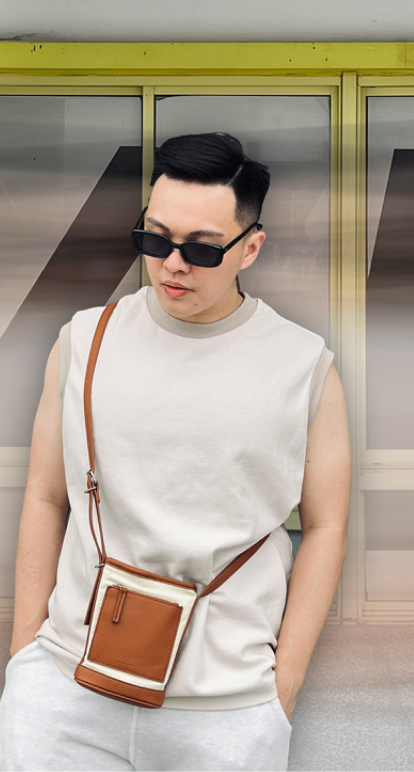
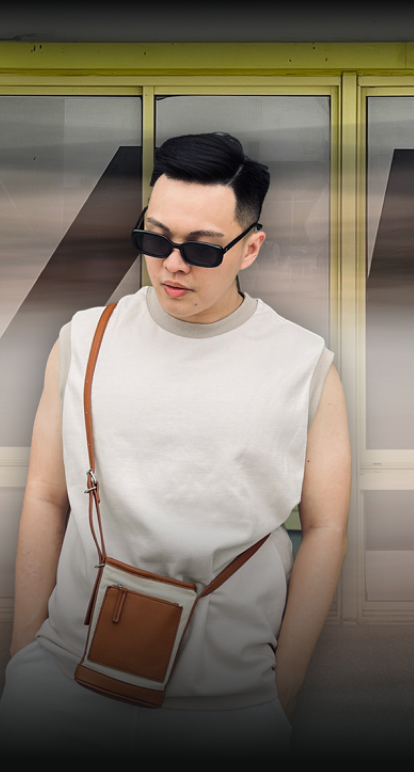
home section with RWD

diff --git a/styles/style.scss b/styles/style.scss
@@ -38,12 +38,12 @@ body {
   width: 100%;
   display: flex;
   justify-content: center;
+  background-color: $BGColor;
+
   main {
     max-width: 1280px;
     min-width: 320px;
     width: 100%;
-<<<<<<< HEAD
-=======
 
     section {
       .sub_heading {
@@ -52,37 +52,72 @@ body {
         color: $H1Color;
       }
     }
->>>>>>> origin/master
 
     section.home {
-      position: relative;
-      img.bg {
-        position: absolute;
-        width: 100%;
-        z-index: -1;
-        top: 0;
-        left: 0;
-      }
-<<<<<<< HEAD
+      // border: 1px solid red;
+      min-height: 187vw;
+      padding-inline: 1rem;
+      padding-block: 1rem;
+      background-color: $BGColor;
+      background-image: url(../imgs/bg_main_mobile.png);
+      background-repeat: no-repeat;
+      background-size: contain;
+      display: flex;
+      flex-direction: column;
+      justify-content: start;
+      align-items: center;
+      font-size: 1rem;
 
       nav.navbar {
-        color: $white;
-        font-family: "Inter", sans-serif;
-        position: absolute;
-        right: 30px;
-        top: 20px;
-=======
-      // background-image: url(../imgs/bg_main_desktop.png);
-      nav {
-        color: $white;
-        font-family: "Inter", sans-serif;
->>>>>>> origin/master
+        width: 100%;
+        // border: 1px solid red;
 
         ul {
           list-style: none;
-          display: flex;
-          flex-direction: column;
-          row-gap: 5px;
+          font-weight: 700;
+          @extend .flex-col-center;
+          justify-content: start;
+          align-items: end;
+
+          span.left-side {
+            align-self: start;
+            position: absolute;
+          }
+
+          span.right-side {
+            @extend .flex-col-center;
+            align-items: end;
+            row-gap: 0.5rem;
+          }
+        }
+      }
+
+      img.title {
+        width: 70%;
+        margin-top: 75%;
+        margin-right: 10%;
+        // border: 1px solid red;
+      }
+
+      img.logo {
+        width: 32%;
+        margin-top: 5%;
+        align-self: end;
+        margin-right: 2%;
+        // border: 1px solid red;
+      }
+
+      div.bottomContainer {
+        // border: 1px solid red;
+        display: flex;
+        margin-top: 5%;
+
+        img.be_icon {
+          // border: 1px solid red;
+          align-self: end;
+          position: absolute;
+          left: 16px;
+          // margin-right: ;
         }
       }
     }
@@ -91,8 +126,9 @@ body {
       width: 100%;
       // height: 100vh;
       padding-inline: 1rem;
-      padding-block:3rem;
+      padding-block: 3rem;
       background-color: $BGColor;
+      // border: none;
 
       div.about_me {
         width: 100%;
@@ -127,8 +163,8 @@ body {
 
           span {
             font-size: 60px;
-            font-weight:900;
-            font-style:italic;
+            font-weight: 900;
+            font-style: italic;
             color: $fontColor;
             white-space: nowrap;
           }
@@ -141,6 +177,36 @@ body {
 @media (min-width: $md) {
   body {
     main {
+      section.home {
+        min-height: 20vw;
+        padding-inline: 5rem;
+        padding-block: 2rem;
+        background-image: url(../imgs/bg_main_ipad.png);
+
+        img.title {
+          width: 70%;
+          margin-top: 42%;
+          margin-right: 35%;
+          // border: 1px solid red;
+        }
+
+        img.logo {
+          width: 25%;
+          margin-top: 0;
+          margin-right: 0;
+          // position: absolute;
+          // border: 1px solid red;
+        }
+
+        div.bottomContainer {
+          margin-top: 0;
+
+          img.be_icon {
+            left: 80px;
+          }
+        }
+      }
+
       section.about {
         padding-inline: 5rem;
       }
@@ -151,6 +217,35 @@ body {
 @media (min-width: $lg) {
   body {
     main {
+      section.home {
+        min-height: 20vw;
+        padding-inline: 5rem;
+        padding-block: 2rem;
+        background-image: url(../imgs/bg_main_desktop.png);
+        font-size: 1.25rem;
+
+        img.title {
+          width: 50%;
+          margin-top: 18%;
+          margin-right: 45%;
+          // border: 1px solid red;
+        }
+
+        img.logo {
+          width: 20%;
+          margin-right: 2rem;
+          // position: absolute;
+          // border: 1px solid red;
+        }
+
+        div.bottomContainer {
+          margin-top: 0;
+
+          img.be_icon {
+            left: 80px;
+          }
+        }
+      }
     }
   }
 }

diff --git a/styles/style.css b/styles/style.css
@@ -15,7 +15,7 @@ h6 {
   font-weight: normal;
 }
 
-.flex-col-center, body main section.about div.what_i_do div, body main section.about div.what_i_do, body main section.about div.about_me div, body main section.about div.about_me {
+.flex-col-center, body main section.about div.what_i_do div, body main section.about div.what_i_do, body main section.about div.about_me div, body main section.about div.about_me, body main section.home nav.navbar ul span.right-side, body main section.home nav.navbar ul {
   display: flex;
   flex-direction: column;
   justify-content: center;
@@ -25,6 +25,7 @@ body {
   width: 100%;
   display: flex;
   justify-content: center;
+  background-color: #0e0f0f;
 }
 body main {
   max-width: 1280px;
@@ -37,27 +38,55 @@ body main section .sub_heading {
   color: #b5a997;
 }
 body main section.home {
-  position: relative;
-}
-body main section.home img.bg {
-  position: absolute;
-  width: 100%;
-  z-index: -1;
-  top: 0;
-  left: 0;
+  min-height: 187vw;
+  padding-inline: 1rem;
+  padding-block: 1rem;
+  background-color: #0e0f0f;
+  background-image: url(../imgs/bg_main_mobile.png);
+  background-repeat: no-repeat;
+  background-size: contain;
+  display: flex;
+  flex-direction: column;
+  justify-content: start;
+  align-items: center;
+  font-size: 1rem;
 }
 body main section.home nav.navbar {
-  color: #ffffff;
-  font-family: "Inter", sans-serif;
-  position: absolute;
-  right: 30px;
-  top: 20px;
+  width: 100%;
 }
 body main section.home nav.navbar ul {
   list-style: none;
+  font-weight: 700;
+  justify-content: start;
+  align-items: end;
+}
+body main section.home nav.navbar ul span.left-side {
+  align-self: start;
+  position: absolute;
+}
+body main section.home nav.navbar ul span.right-side {
+  align-items: end;
+  row-gap: 0.5rem;
+}
+body main section.home img.title {
+  width: 70%;
+  margin-top: 75%;
+  margin-right: 10%;
+}
+body main section.home img.logo {
+  width: 32%;
+  margin-top: 5%;
+  align-self: end;
+  margin-right: 2%;
+}
+body main section.home div.bottomContainer {
   display: flex;
-  flex-direction: column;
-  row-gap: 5px;
+  margin-top: 5%;
+}
+body main section.home div.bottomContainer img.be_icon {
+  align-self: end;
+  position: absolute;
+  left: 16px;
 }
 body main section.about {
   width: 100%;
@@ -95,7 +124,53 @@ body main section.about div.what_i_do div span {
 }
 
 @media (min-width: 768px) {
+  body main section.home {
+    min-height: 20vw;
+    padding-inline: 5rem;
+    padding-block: 2rem;
+    background-image: url(../imgs/bg_main_ipad.png);
+  }
+  body main section.home img.title {
+    width: 70%;
+    margin-top: 42%;
+    margin-right: 35%;
+  }
+  body main section.home img.logo {
+    width: 25%;
+    margin-top: 0;
+    margin-right: 0;
+  }
+  body main section.home div.bottomContainer {
+    margin-top: 0;
+  }
+  body main section.home div.bottomContainer img.be_icon {
+    left: 80px;
+  }
   body main section.about {
     padding-inline: 5rem;
+  }
+}
+@media (min-width: 1280px) {
+  body main section.home {
+    min-height: 20vw;
+    padding-inline: 5rem;
+    padding-block: 2rem;
+    background-image: url(../imgs/bg_main_desktop.png);
+    font-size: 1.25rem;
+  }
+  body main section.home img.title {
+    width: 50%;
+    margin-top: 18%;
+    margin-right: 45%;
+  }
+  body main section.home img.logo {
+    width: 20%;
+    margin-right: 2rem;
+  }
+  body main section.home div.bottomContainer {
+    margin-top: 0;
+  }
+  body main section.home div.bottomContainer img.be_icon {
+    left: 80px;
   }
 }/*# sourceMappingURL=style.css.map */

diff --git a/src/index.html b/src/index.html
@@ -11,7 +11,6 @@
 <body>
     <main>
         <section class="home">
-            <!-- <img class="bg" src="../imgs/bg_main_desktop.png" alt="portrait"> -->
             <nav class="navbar">
                 <ul>
                     <span class="left-side">
@@ -25,10 +24,14 @@
                     </span>
                 </ul>
             </nav>
-            <title><img src="../imgs/img_title.png" alt="title"></title>
-            <div class="logo"><img src="../imgs/logo_white.png" alt="logo"></div>
-            <div class="be_icon"><img src="../imgs/img_behance.png" alt="behance"></div>
+            <img class="title" src="../imgs/img_title.png" alt="title">
+            <img class="logo" src="../imgs/logo_white.png" alt="logo">
+            <div class="bottomContainer">
+                <img class="be_icon" src="../imgs/img_behance.png" alt="behance">
+                <img class="nextPage" src="../imgs/img_nextPage.png" alt="nextPage" >
+            </div>
         </section>
+
         <section class="about">
             <div class="about_me">
                 <span class="sub_heading">About Me</span>
